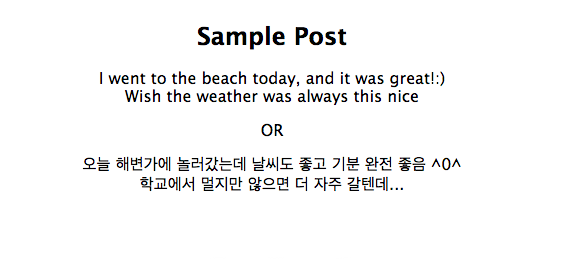
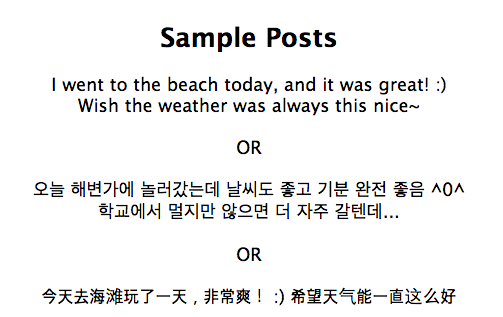
Added the list of scenarios
+ added the Chinese sample post

diff --git a/app/list.html b/app/list.html
@@ -1,0 +1,44 @@
+<!doctype html>
+<html lang="en">
+<head>
+	<meta charset="UTF-8">
+	<title>Bilingual Users on Facebook</title>
+	<style>
+	div {font-family:"lucida grande",tahoma,verdana,arial,sans-serif}
+	.box {width: 304pt; padding:2pt; background-color: #E9EAED; }
+	</style>
+
+	<script src="https://ajax.googleapis.com/ajax/libs/jquery/1.11.1/jquery.min.js"></script>
+	<script src="page1.js"></script>
+	<script type="text/javascript">
+	function redirect() {
+		window.location = "page1.html#refcode=" + refcode + 
+			"&lang=" + L1;
+	}
+
+	scenariosKor ="1. Today is Chinese/Korean New Year. <br>Write a post to greet your Facebook friends.<br>오늘은 설날(구정)입니다. <br>페이스북 친구들에게 새해인사 글을 포스팅해보세요.<br><br>2. You went over to your friend’s house and really enjoyed the homemade food.<br> Write a post that would go along with this picture you took of your plate.<br>저녁초대를 받아서 간 친구집에서 먹었던 음식은 정말로 맛있었습니다. <br> 당신이 찍은 음식사진과 함께 페이스북에 올릴 글을 포스팅해보세요.<br><img src=\"../pics/scenario2.jpeg\" height=\"250pt\"><br><br>3. You just got assigned to a final project team for a course.<br> Write a post to plan a team meeting this Saturday at 2pm.<br>당신은 방금 기말 프로젝트 그룹에 배정 받았습니다. <br>이번주 토요일 오후 2시에 그룹회의 하자는 글을 페이스북에 포스팅해보세요.<br><br>4. Your professor sang ‘Let it Go’ in the middle of a class today.<br> Write a post about it.<br>오늘 교수님이 수업시간 도중에 ‘Let it Go’를 부르셨습니다.<br> 이에 대한 글을 페이스북에 포스팅해보세요.<br><br>5. You are graduating, and you want to sell your car (Ford Fusion, 2009, blue, 35000 miles) for $10,000.<br> Below is a picture of your car. Write a post that goes along with the picture to advertise it.<br>졸업을 앞두고 있는 당신은 자동차 (Ford Fusion, 2009, 남색, 35000 마일) 를 팔고자 합니다.<br> 아래사진은 당신의 차 사진입니다. 이 사진과 연관된 광고글을 포스팅해보세요.<br><img src=\"../pics/scenario5.jpeg\" height=\"250pt\"><br><br>6. Today is Christmas.<br> Write a post to greet your Facebook friends.<br>오늘은 크리스마스입니다.<br> 페이스북 친구들에게 크리스마스 인사글을 포스팅해주세요.<br><br>7. You just got back from your 3 day trip to New York.<br> On that trip, you saw Statue of Liberty and Wall Street Charging Bull, and took this picture of Times Square. <br>Write a post that you will post with this picture.<br>당신은 방금 뉴욕 2박3일 여행에서 돌아왔습니다.<br> 여행에서 자유의 여신상과 월가 황소동상도 보고 타임스퀘어에서 아래의 사진도 찍었습니다. <br>이 사진과 같이 올릴 글을 포스팅해주세요.<br><img src=\"../pics/scenario7.jpeg\" height=\"250pt\"><br><br>8. Yesterday was your birthday and lots of people posted greetings on your wall.<br> Write a post to thank everyone.<br>어제는 당신의 생일이었고 많은 사람들이 페이스북에 축하글을 남겼습니.<br> 생일 축하글을 남긴 사람들에게 감사글을 포스팅해주세요.<br>";
+	scenariosChi = "1. Today is Chinese/Korean New Year. <br>Write a post to greet your Facebook friends.<br>今天是农历春节。请发表一个状态祝你在Facebook上的朋友们新年快乐。<br><br>2. You went over to your friend’s house and really enjoyed the homemade food.<br> Write a post that would go along with this picture you took of your plate.<br>你刚刚去朋友家品尝了他/她做的美食。请发表一个与配图相关的状态。<br><img src=\"../pics/scenario2.jpeg\" height=\"250pt\"><br><br>3. You just got assigned to a final project team for a course.<br> Write a post to plan a team meeting this Saturday at 2pm.<br>你刚刚得知你期末大作业的分组安排。请发表一个状态组织队友在本周六下午两点开会。<br><br>4. Your professor sang ‘Let it Go’ in the middle of a class today.<br> Write a post about it.<br>你一门课的教授今天在课上为大家演唱了“Let It Go”。请就此事件发表一个状态。<br><br>5. You are graduating, and you want to sell your car (Ford Fusion, 2009, blue, 35000 miles) for $10,000.<br> Below is a picture of your car. Write a post that goes along with the picture to advertise it.<br>临近毕业，你正准备卖掉你自己的车（Ford Fusion，2009，蓝色，35000英里），<br> 并标价10000美元。请发表一个和配图相关的广告贴。<br><img src=\"../pics/scenario5.jpeg\" height=\"250pt\"><br><br>6. Today is Christmas.<br> Write a post to greet your Facebook friends.<br>今天是圣诞节。请发表一个状态祝你的朋友们圣诞快乐。<br><br>7. You just got back from your 3 day trip to New York.<br> On that trip, you saw Statue of Liberty and Wall Street Charging Bull, and took this picture of Times Square. <br>Write a post that you will post with this picture.<br>你刚刚去纽约市玩了三天。这趟旅行中你参观了自由女神像，华尔街金牛，和图片中的时代广场。请发表一条关于以下照片的状态。<br><img src=\"../pics/scenario7.jpeg\" height=\"250pt\"><br><br>8. Yesterday was your birthday and lots of people posted greetings on your wall.<br> Write a post to thank everyone.<br>昨天是你的生日，很多朋友都在你的墙上发表了生日祝福。请写一个状态感谢大家的祝福。<br>";
+
+	params = analyse(window.location.hash);
+	var L1 = params.lang;
+	var refcode = params.refcode;
+	function changeLang() {
+		console.log("rest");
+	if (L1.indexOf("Korean") > -1)
+		document.getElementById("scenarioList").innerHTML = scenariosKor;
+	else
+		document.getElementById("scenarioList").innerHTML = scenariosChi;
+	}
+	</script>
+</head>
+<body style="margin:0;" onload="javascript:changeLang()">
+
+	<div  style="background-color:#3B5998; color: white; height:50pt"><p>Languange Choices of Bilingual Users on Facebook</p></div>
+    <div style="margin-left:50pt; width:100%; "> 
+
+    <h2>Scenarios</h2>
+    <p id="scenarioList" >Sample list</p>
+    <button type="button" onclick="redirect()">Next</button>
+	</div>
+
+</body>

diff --git a/intro.html b/intro.html
@@ -10,8 +10,9 @@
 
 	<script src="https://ajax.googleapis.com/ajax/libs/jquery/1.11.1/jquery.min.js"></script>
 	<script type="text/javascript">
+
 	function redirect() {
-		window.location = "app/page1.html#refcode=" +
+		window.location = "app/list.html#refcode=" +
 			document.getElementById("number").value + 
 			"&lang=" + document.querySelector('input[name="lang"]:checked').value;
 	}
@@ -22,8 +23,12 @@
 	<div  style="background-color:#3B5998; color: white; height:50pt"><p>Languange Choices of Bilingual Users on Facebook</p></div>
     <div style="width:100%; text-align:center"> 
 
-	<h2>Instructions</h2>
-	<p >You will be given 1 sample scenario and 8 actual scenarios to write about. <br>For each scenario, write a post in the textbox that says 'Enter text here' and click 'Post'. <br>Once you click Post, you won't be able to go back to the previous scenario.</p>
+	<p>In this task, we will present 8 different scenarios.<br>
+We will give you a full list of all the scenarios at the beginning and present each scenario separately (one per page) later on.<br>
+Your task is to write a Facebook post about each of the scenarios.<br>
+We will provide you with a sample scenario and corresponding sample posts (1 in English and 1 in Chinese/Korean).</p> 
+		<h2>Instructions</h2>
+		<p>For each of the 8 scenarios, write a post in the textbox that says 'Enter text here' and click 'Post'. <br>Once you click Post, you won't be able to go back to the previous scenario.</p>
 	<img src="post.jpg" width="400pt">	
 	<p>You may write in whatever language you prefer (English, Chinese, Korean, or a mix of languages).<br> These posts will NOT be published on Facebook.<br></p>
 	</div>

diff --git a/app/page1.html b/app/page1.html
@@ -19,7 +19,7 @@
        <p id="scenario">You just came back home from a day at the beach.<br>Write a post on Facebook about your day.</p>
         <p id="scenarioL1">당신은 방금 해변가에서 놀다 집에 돌아왔습니다.<br>
         오늘 한 일에 대한 글을 페이스북에 포스팅해보세요.</p>
-        <img id="scenarioImage" src="../pics/sample.jpeg" height="250pt">
+        <img id="scenarioImage" src="../pics/sample.jpeg" width="450pt">
     </div>
     </div>
     <div style="float:right; width:50%;"><br>

diff --git a/app/page1.js b/app/page1.js
@@ -77,6 +77,7 @@ function getStatus() {
 
 	if (statusNo == 2 || statusNo == 5 || statusNo == 7 ){
 		scanarioImage.src = "../pics/scenario" + statusNo.toString() + ".jpeg";
+		scenario.width = "400pt";
 		scanarioImage.style.visibility = 'visible';
 	} else{
 		scanarioImage.style.visibility = 'hidden';
